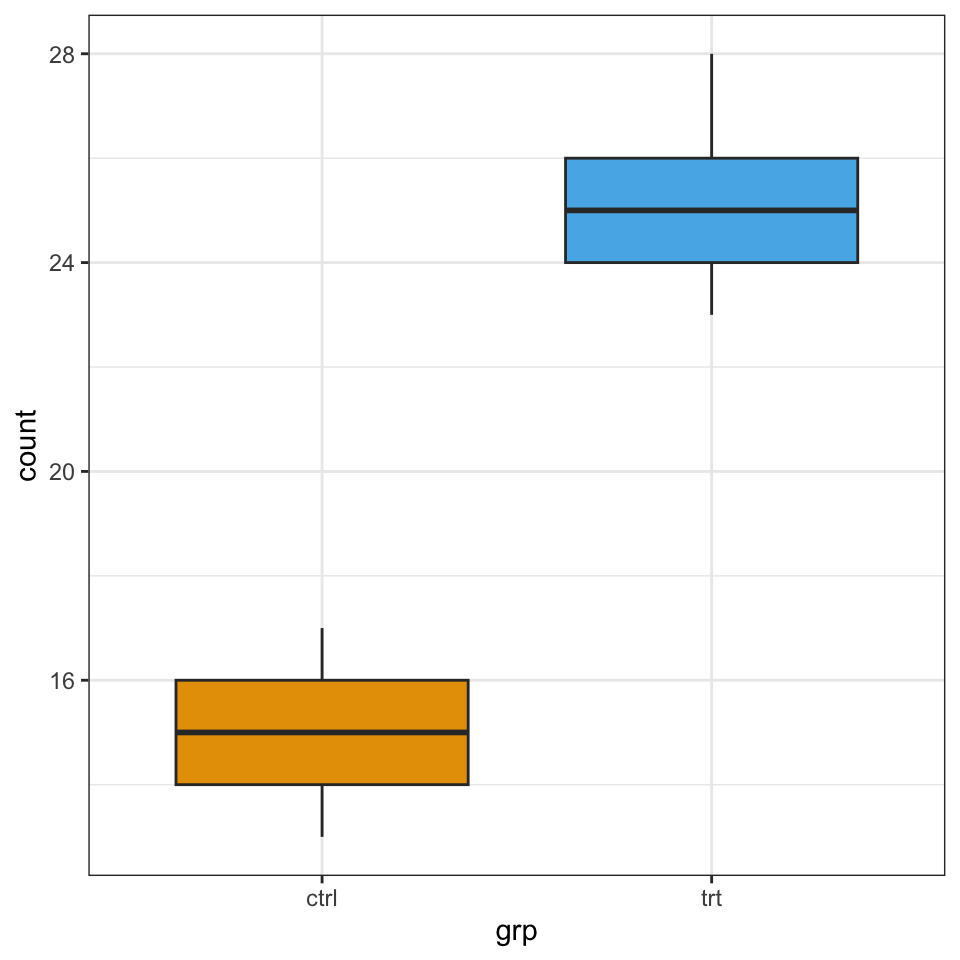
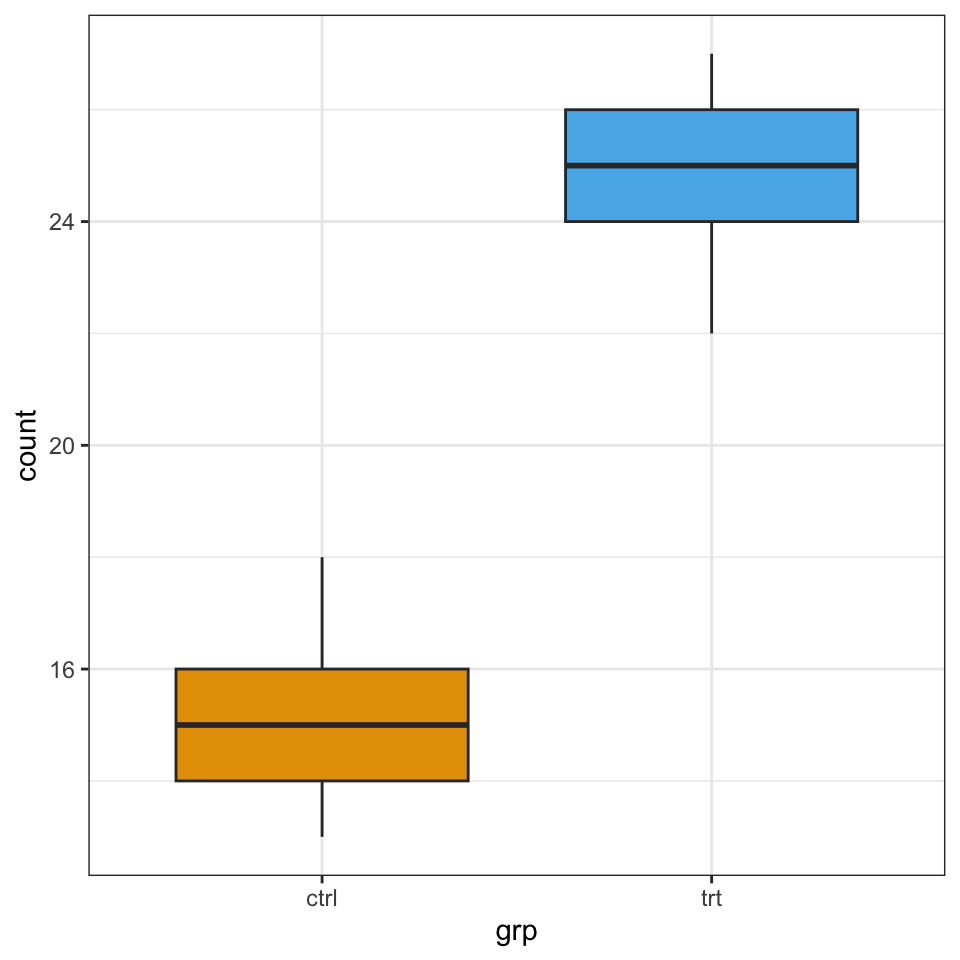
added text

diff --git a/docs/stat-modeling-poisson.html b/docs/stat-modeling-poisson.html
@@ -746,7 +746,7 @@ div.csl-indent {
 
 </header>
 
-<p><em>Letzte Änderung am 02. December 2023 um 21:48:24</em></p>
+<p><em>Letzte Änderung am 03. December 2023 um 10:58:41</em></p>
 <div class="callout callout-style-default callout-tip callout-titled">
 <div class="callout-header d-flex align-content-center">
 <div class="callout-icon-container">
@@ -1171,35 +1171,35 @@ temp        |      0.09 |     0.03 | [ 0.03,  0.16] |  2.85 | 0.004 </code></pre
 </tr>
 <tr class="even">
 <td style="text-align: center;">ctrl</td>
+<td style="text-align: center;">15</td>
+</tr>
+<tr class="odd">
+<td style="text-align: center;">ctrl</td>
 <td style="text-align: center;">16</td>
 </tr>
-<tr class="odd">
-<td style="text-align: center;">ctrl</td>
-<td style="text-align: center;">17</td>
-</tr>
 <tr class="even">
 <td style="text-align: center;">ctrl</td>
-<td style="text-align: center;">14</td>
+<td style="text-align: center;">15</td>
 </tr>
 <tr class="odd">
 <td style="text-align: center;">…</td>
 <td style="text-align: center;">…</td>
 </tr>
 <tr class="even">
-<td style="text-align: center;">trt</td>
-<td style="text-align: center;">25</td>
-</tr>
-<tr class="odd">
-<td style="text-align: center;">trt</td>
-<td style="text-align: center;">25</td>
-</tr>
-<tr class="even">
-<td style="text-align: center;">trt</td>
-<td style="text-align: center;">25</td>
-</tr>
-<tr class="odd">
 <td style="text-align: center;">trt</td>
 <td style="text-align: center;">24</td>
+</tr>
+<tr class="odd">
+<td style="text-align: center;">trt</td>
+<td style="text-align: center;">25</td>
+</tr>
+<tr class="even">
+<td style="text-align: center;">trt</td>
+<td style="text-align: center;">24</td>
+</tr>
+<tr class="odd">
+<td style="text-align: center;">trt</td>
+<td style="text-align: center;">26</td>
 </tr>
 </tbody>
 </table>
@@ -1253,8 +1253,8 @@ temp        |      0.09 |     0.03 | [ 0.03,  0.16] |  2.85 | 0.004 </code></pre
 <div class="cell-output cell-output-stdout">
 <pre><code>Parameter   |   IRR |   SE |         95% CI |      z |      p
 -------------------------------------------------------------
-(Intercept) | 14.99 | 0.39 | [14.24, 15.76] | 104.82 | &lt; .001
-grp [trt]   |  1.67 | 0.05 | [ 1.57,  1.78] |  15.77 | &lt; .001</code></pre>
+(Intercept) | 15.10 | 0.39 | [14.35, 15.87] | 105.49 | &lt; .001
+grp [trt]   |  1.65 | 0.05 | [ 1.55,  1.76] |  15.35 | &lt; .001</code></pre>
 </div>
 </div>
 <p>Als erstes fällt auf, dass wir die Ausgabe des Modells exponieren müssen. Um einen linearen Zusamenhang hinzukriegen bedient sich die Poissonregression den Trick, das der Zusammenhang zwischen dem <span class="math inline">\(y\)</span> und dem <span class="math inline">\(x\)</span> <em>transformiert</em> wird. Wir rechnen unsere Regression nicht auf den echten Daten sondern auf dem <span class="math inline">\(\log\)</span>-scale. Daher müssen wir die Koeffizienten der Poissonregression wieder zurücktransfomieren, wenn wir die Koeffizienten interpretieren wollen. Das können wir mit der Option <code>exponentiate = TRUE</code> durchführen.</p>
@@ -1899,7 +1899,7 @@ animal    |  2 |   205.42 |         57 |             3.20 | &lt; .001
 Anova Table (Type 1 tests)</code></pre>
 </div>
 </div>
-<p>Im folgenden nutzen wir das R Paket <code>{emmeans}</code> wie folgt. Wenn wir die Wahrscheinlichkeiten wiedergeben haben wollen, dann nutzen wir die Option <code>regrid = "response"</code>. In unserem <code>emmeans</code>-Objekt stehen jetzt die Wahrscheinlichkeiten infiziert zu sein für das jeweilige Level von <code>frailty</code>. Wenn wir aber später die <em>Odds ratio</em> benötigen, dann müssen wir die Option <code>type = "response"</code> verwenden. Erstere Option nutze ich später um direkt aus der <code>emmeans</code> Ausgabe ein Säulendiagramm zu erstellen. Auf dem ersten Blick sind beide Ausgaben gleich, aber im Hintergrund werden andere Optionen gesetzt, so dass in folgenden Berechnungen dann was anderes herauskommt.</p>
+<p>Im folgenden nutzen wir das R Paket <code>{emmeans}</code> wie folgt. Wenn wir die mittleren Anzahlen benötigen, dann müssen wir die Option <code>type = "response"</code> verwenden. Sonst würdest du Werte auf der Link-Skala wiederbekommen, die dir hier nicht helfen. Ich nutze später die <code>emmeans</code> Ausgabe um ein Säulendiagramm mit den mittleren Anzahlen zu erstellen. Wir du gleich sehen wirst, werden wir aber nicht die Anzahlen vergleichen sondern die <em>Raten</em> in den jeweiligen Gruppen.</p>
 <div class="cell">
 <div class="sourceCode cell-code" id="cb58"><pre class="sourceCode r code-with-copy"><code class="sourceCode r"><span id="cb58-1"><a href="#cb58-1" aria-hidden="true" tabindex="-1"></a>emm_obj <span class="ot">&lt;-</span> pois_fit <span class="sc">%&gt;%</span> </span>
 <span id="cb58-2"><a href="#cb58-2" aria-hidden="true" tabindex="-1"></a>  <span class="fu">emmeans</span>(<span class="sc">~</span> animal, <span class="at">type =</span> <span class="st">"response"</span>)</span>
@@ -1914,6 +1914,7 @@ Confidence level used: 0.95
 Intervals are back-transformed from the log scale </code></pre>
 </div>
 </div>
+<p>Jetzt steht hier zwar <code>rate</code> aber was ist das denn nun? Dafür berechnen wir mal die Mittelwerte der Anzahlen für die drei Tierarten über die Funktion <code>summarise()</code>. Dann vergleichen wir einmal die Ausgaben und schauen, was wir in <code>emmeans()</code> berechnet haben.</p>
 <div class="cell">
 <div class="sourceCode cell-code" id="cb60"><pre class="sourceCode r code-with-copy"><code class="sourceCode r"><span id="cb60-1"><a href="#cb60-1" aria-hidden="true" tabindex="-1"></a>flea_count_tbl <span class="sc">%&gt;%</span> </span>
 <span id="cb60-2"><a href="#cb60-2" aria-hidden="true" tabindex="-1"></a>  <span class="fu">group_by</span>(animal) <span class="sc">%&gt;%</span> </span>
@@ -1927,19 +1928,22 @@ Intervals are back-transformed from the log scale </code></pre>
 3 fox          10.2</code></pre>
 </div>
 </div>
+<p>Wunderbar, es sind die Mittelwerte der Anzahlen, die in der Spalte <code>rate</code> in der Ausgabe von <code>emmeans()</code> stehen. Damit können wir dann arbeiten und die Ausgabe nutzen um ein Säulendigramm zu erstellen. Bitte schaue für die Umsetzung in das Beispiel am Ende des Abschnitts. Da zeige ich dir dann wie du ein Säulendigramm zu den Anzahlen von Thripsen auf Apfelbäumen erstellst.</p>
+<p>Wenn du die mittleren Anzahlen pro Tierart jetzt für jede Tierart testen willst, dann erhälst du aber keinen Mittelwertsunterschied der Anzahlen, sondern eine <em>Rate</em>. Rechnen wir aber erstmal den paarweisen Vergleich und schauen uns dann an, was wir erhalten haben. Wir kriegen am Ende wiederum einen Vergleich von Wahrscheinlichkeiten, aber eben hier von <em>Raten</em>. Wie immer, es kommt darauf an, was du willst. Hier einmal die paarweisen Vergleiche, darunter dann gleich das <em>compact letter display</em>.</p>
 <div class="cell">
 <div class="sourceCode cell-code" id="cb62"><pre class="sourceCode r code-with-copy"><code class="sourceCode r"><span id="cb62-1"><a href="#cb62-1" aria-hidden="true" tabindex="-1"></a>emm_obj <span class="sc">%&gt;%</span> </span>
-<span id="cb62-2"><a href="#cb62-2" aria-hidden="true" tabindex="-1"></a>  <span class="fu">pairs</span>()</span></code><button title="In die Zwischenablage kopieren" class="code-copy-button"><i class="bi"></i></button></pre></div>
+<span id="cb62-2"><a href="#cb62-2" aria-hidden="true" tabindex="-1"></a>  <span class="fu">pairs</span>(<span class="at">adjust =</span> <span class="st">"bonferroni"</span>)</span></code><button title="In die Zwischenablage kopieren" class="code-copy-button"><i class="bi"></i></button></pre></div>
 <div class="cell-output cell-output-stdout">
 <pre><code> contrast  ratio    SE  df null z.ratio p.value
  cat / dog 0.668 0.043 Inf    1  -6.269  &lt;.0001
  cat / fox 1.971 0.169 Inf    1   7.891  &lt;.0001
  dog / fox 2.951 0.239 Inf    1  13.358  &lt;.0001
 
-P value adjustment: tukey method for comparing a family of 3 estimates 
+P value adjustment: bonferroni method for 3 tests 
 Tests are performed on the log scale </code></pre>
 </div>
 </div>
+<p>Okay, jetzt haben wir statt Raten also eine <em>Ratio</em>, also ein Verhältnis von Raten. Das schauen wir uns doch gleich mal in dem Beispiel an. Wir rechnen also einmal die mittlere Anzahl für jede Tierart durch die entsprechende andere mittlere Anzahl der anderen Tierart. Wir erhalten also folgende <em>Ratios</em> der mittleren Anzahlen.</p>
 <p><span class="math display">\[
 \cfrac{cat}{dog} = \cfrac{20.1}{30.1} = 0.67
 \]</span></p>
@@ -1949,6 +1953,8 @@ Tests are performed on the log scale </code></pre>
 <p><span class="math display">\[
 \cfrac{dog}{fox} = \cfrac{30.1}{10.2} = 2.95
 \]</span></p>
+<p>Wie interpretieren wir jetzt die <em>Ratios</em>? Eigentlich ist das intuitiver als man auf den ersten Blick denkt. Wir haben zum Beispiel fast doppelt so viele Flöhe bei Katzen wie bei Füchsen. Die Anzahl von Hundeflöhen ist fast dreimal so hoch wie die Anzahl an Fuchsflöhen. Wir haben fast nur halb so viele Flöhe auf Katzen gefunden als bei den Hunden. Damit können wir dann schon arbeiten und eine Aussage treffen.</p>
+<p>Und fast am Ende können wir uns auch das <em>compact letter display</em> erstellen. Auch hier nutzen wir wieder die Funktion <code>cld()</code> aus dem R Paket <code>{multcomp}</code>. Hier erhälst du dann die Information über die mittlere Anzahl der jeweiligen Tierarten und ob sich die mittlere Anzahl unterscheidet. Ich nutze dann die Ausgabe von <code>emmeans()</code> um mir dann direkt das Säulendiagramm mit den Fehlerbalken und dem <em>compact letter display</em> zu erstellen. Mehr dazu dann im Kasten weiter unten zu dem Bespiel zu Thripsenanzahl auf Apfelbäumen.</p>
 <div class="cell">
 <div class="sourceCode cell-code" id="cb64"><pre class="sourceCode r code-with-copy"><code class="sourceCode r"><span id="cb64-1"><a href="#cb64-1" aria-hidden="true" tabindex="-1"></a>emm_obj <span class="sc">%&gt;%</span></span>
 <span id="cb64-2"><a href="#cb64-2" aria-hidden="true" tabindex="-1"></a>  <span class="fu">cld</span>(<span class="at">Letters =</span> letters, <span class="at">adjust =</span> <span class="st">"none"</span>)</span></code><button title="In die Zwischenablage kopieren" class="code-copy-button"><i class="bi"></i></button></pre></div>
@@ -1977,7 +1983,6 @@ Offset
 </div>
 </div>
 <div class="callout-body-container callout-body">
-<p>: Ein Wort zum Offset</p>
 <p><a href="https://en.wikipedia.org/wiki/Poisson_regression#.22Exposure.22_and_offset">“Exposure” and offset</a></p>
 <p><a href="https://stats.stackexchange.com/questions/11182/when-to-use-an-offset-in-a-poisson-regression">When to use an offset in a Poisson regression?</a></p>
 <p><a href="https://cran.r-project.org/web/packages/emmeans/vignettes/sophisticated.html#offsets">Models with offsets</a></p>
@@ -2216,10 +2221,6 @@ NOTE: If two or more means share the same grouping symbol,
 <div class="sourceCode cell-code" id="cb86"><pre class="sourceCode r code-with-copy"><code class="sourceCode r"><span id="cb86-1"><a href="#cb86-1" aria-hidden="true" tabindex="-1"></a>insects_tbl <span class="sc">%&gt;%</span> </span>
 <span id="cb86-2"><a href="#cb86-2" aria-hidden="true" tabindex="-1"></a>  <span class="fu">group_by</span>(trt, timepoint) <span class="sc">%&gt;%</span> </span>
 <span id="cb86-3"><a href="#cb86-3" aria-hidden="true" tabindex="-1"></a>  <span class="fu">summarise</span>(<span class="at">mean =</span> <span class="fu">round</span>(<span class="fu">mean</span>(thripse), <span class="dv">2</span>)) </span></code><button title="In die Zwischenablage kopieren" class="code-copy-button"><i class="bi"></i></button></pre></div>
-<div class="cell-output cell-output-stderr">
-<pre><code>`summarise()` has grouped output by 'trt'. You can override using the `.groups`
-argument.</code></pre>
-</div>
 <div class="cell-output cell-output-stdout">
 <pre><code># A tibble: 15 × 3
 # Groups:   trt [3]
@@ -2244,20 +2245,20 @@ argument.</code></pre>
 </div>
 <p>In der <a href="#fig-log-mod-pois-insect">Abbildung&nbsp;<span>45.6</span></a> siehst du das Ergebnis der Auswertung in einem Säulendiagramm. Hier unbedingt <code>SE</code> als den Standardfehler für die Fehlerbalken nutzen, da wir sonst Fehlerbalken größer und kleiner als <span class="math inline">\(0/1\)</span> erhalten, wenn wir die Standardabweichung nutzen würden. Wir sehen einen klaren Effekt der Behandlung <code>viel</code>. Schade, dass wir dann nach 5 Tagen leider keine Auswertung für die dritte Behandlung vorliegen haben. Aber sowas passiert dann unter echten Bedingungen mal schnell.</p>
 <div class="cell" data-layout-align="center">
-<div class="sourceCode cell-code" id="cb89"><pre class="sourceCode r code-with-copy"><code class="sourceCode r"><span id="cb89-1"><a href="#cb89-1" aria-hidden="true" tabindex="-1"></a>emm_obj <span class="sc">%&gt;%</span> </span>
-<span id="cb89-2"><a href="#cb89-2" aria-hidden="true" tabindex="-1"></a>  <span class="fu">as_tibble</span>() <span class="sc">%&gt;%</span> </span>
-<span id="cb89-3"><a href="#cb89-3" aria-hidden="true" tabindex="-1"></a>  <span class="fu">ggplot</span>(<span class="fu">aes</span>(<span class="at">x =</span> timepoint, <span class="at">y =</span> rate, <span class="at">fill =</span> trt)) <span class="sc">+</span></span>
-<span id="cb89-4"><a href="#cb89-4" aria-hidden="true" tabindex="-1"></a>  <span class="fu">theme_bw</span>() <span class="sc">+</span> </span>
-<span id="cb89-5"><a href="#cb89-5" aria-hidden="true" tabindex="-1"></a>  <span class="fu">labs</span>(<span class="at">y =</span> <span class="st">"Mittlere Anzahl an Thripsen"</span>, <span class="at">x =</span> <span class="st">"Messzeitpunkte der Zählungen"</span>,</span>
-<span id="cb89-6"><a href="#cb89-6" aria-hidden="true" tabindex="-1"></a>       <span class="at">fill =</span> <span class="st">"Dosis"</span>) <span class="sc">+</span></span>
-<span id="cb89-7"><a href="#cb89-7" aria-hidden="true" tabindex="-1"></a>  <span class="fu">geom_bar</span>(<span class="at">stat =</span> <span class="st">"identity"</span>, </span>
-<span id="cb89-8"><a href="#cb89-8" aria-hidden="true" tabindex="-1"></a>           <span class="at">position =</span> <span class="fu">position_dodge</span>(<span class="at">width =</span> <span class="fl">0.9</span>, <span class="at">preserve =</span> <span class="st">"single"</span>)) <span class="sc">+</span></span>
-<span id="cb89-9"><a href="#cb89-9" aria-hidden="true" tabindex="-1"></a>  <span class="fu">geom_text</span>(<span class="fu">aes</span>(<span class="at">label =</span> .group, <span class="at">y =</span> rate <span class="sc">+</span> SE <span class="sc">+</span> <span class="fl">0.01</span>),  </span>
-<span id="cb89-10"><a href="#cb89-10" aria-hidden="true" tabindex="-1"></a>            <span class="at">position =</span> <span class="fu">position_dodge</span>(<span class="at">width =</span> <span class="fl">0.9</span>), <span class="at">vjust =</span> <span class="sc">-</span><span class="fl">0.25</span>) <span class="sc">+</span></span>
-<span id="cb89-11"><a href="#cb89-11" aria-hidden="true" tabindex="-1"></a>  <span class="fu">geom_errorbar</span>(<span class="fu">aes</span>(<span class="at">ymin =</span> rate<span class="sc">-</span>SE, <span class="at">ymax =</span> rate<span class="sc">+</span>SE),</span>
-<span id="cb89-12"><a href="#cb89-12" aria-hidden="true" tabindex="-1"></a>                <span class="at">width =</span> <span class="fl">0.2</span>,  </span>
-<span id="cb89-13"><a href="#cb89-13" aria-hidden="true" tabindex="-1"></a>                <span class="at">position =</span> <span class="fu">position_dodge</span>(<span class="at">width =</span> <span class="fl">0.9</span>, <span class="at">preserve =</span> <span class="st">"single"</span>)) <span class="sc">+</span></span>
-<span id="cb89-14"><a href="#cb89-14" aria-hidden="true" tabindex="-1"></a>  <span class="fu">scale_fill_okabeito</span>()</span></code><button title="In die Zwischenablage kopieren" class="code-copy-button"><i class="bi"></i></button></pre></div>
+<div class="sourceCode cell-code" id="cb88"><pre class="sourceCode r code-with-copy"><code class="sourceCode r"><span id="cb88-1"><a href="#cb88-1" aria-hidden="true" tabindex="-1"></a>emm_obj <span class="sc">%&gt;%</span> </span>
+<span id="cb88-2"><a href="#cb88-2" aria-hidden="true" tabindex="-1"></a>  <span class="fu">as_tibble</span>() <span class="sc">%&gt;%</span> </span>
+<span id="cb88-3"><a href="#cb88-3" aria-hidden="true" tabindex="-1"></a>  <span class="fu">ggplot</span>(<span class="fu">aes</span>(<span class="at">x =</span> timepoint, <span class="at">y =</span> rate, <span class="at">fill =</span> trt)) <span class="sc">+</span></span>
+<span id="cb88-4"><a href="#cb88-4" aria-hidden="true" tabindex="-1"></a>  <span class="fu">theme_bw</span>() <span class="sc">+</span> </span>
+<span id="cb88-5"><a href="#cb88-5" aria-hidden="true" tabindex="-1"></a>  <span class="fu">labs</span>(<span class="at">y =</span> <span class="st">"Mittlere Anzahl an Thripsen"</span>, <span class="at">x =</span> <span class="st">"Messzeitpunkte der Zählungen"</span>,</span>
+<span id="cb88-6"><a href="#cb88-6" aria-hidden="true" tabindex="-1"></a>       <span class="at">fill =</span> <span class="st">"Dosis"</span>) <span class="sc">+</span></span>
+<span id="cb88-7"><a href="#cb88-7" aria-hidden="true" tabindex="-1"></a>  <span class="fu">geom_bar</span>(<span class="at">stat =</span> <span class="st">"identity"</span>, </span>
+<span id="cb88-8"><a href="#cb88-8" aria-hidden="true" tabindex="-1"></a>           <span class="at">position =</span> <span class="fu">position_dodge</span>(<span class="at">width =</span> <span class="fl">0.9</span>, <span class="at">preserve =</span> <span class="st">"single"</span>)) <span class="sc">+</span></span>
+<span id="cb88-9"><a href="#cb88-9" aria-hidden="true" tabindex="-1"></a>  <span class="fu">geom_text</span>(<span class="fu">aes</span>(<span class="at">label =</span> .group, <span class="at">y =</span> rate <span class="sc">+</span> SE <span class="sc">+</span> <span class="fl">0.01</span>),  </span>
+<span id="cb88-10"><a href="#cb88-10" aria-hidden="true" tabindex="-1"></a>            <span class="at">position =</span> <span class="fu">position_dodge</span>(<span class="at">width =</span> <span class="fl">0.9</span>), <span class="at">vjust =</span> <span class="sc">-</span><span class="fl">0.25</span>) <span class="sc">+</span></span>
+<span id="cb88-11"><a href="#cb88-11" aria-hidden="true" tabindex="-1"></a>  <span class="fu">geom_errorbar</span>(<span class="fu">aes</span>(<span class="at">ymin =</span> rate<span class="sc">-</span>SE, <span class="at">ymax =</span> rate<span class="sc">+</span>SE),</span>
+<span id="cb88-12"><a href="#cb88-12" aria-hidden="true" tabindex="-1"></a>                <span class="at">width =</span> <span class="fl">0.2</span>,  </span>
+<span id="cb88-13"><a href="#cb88-13" aria-hidden="true" tabindex="-1"></a>                <span class="at">position =</span> <span class="fu">position_dodge</span>(<span class="at">width =</span> <span class="fl">0.9</span>, <span class="at">preserve =</span> <span class="st">"single"</span>)) <span class="sc">+</span></span>
+<span id="cb88-14"><a href="#cb88-14" aria-hidden="true" tabindex="-1"></a>  <span class="fu">scale_fill_okabeito</span>()</span></code><button title="In die Zwischenablage kopieren" class="code-copy-button"><i class="bi"></i></button></pre></div>
 <div class="cell-output-display">
 <div id="fig-log-mod-pois-insect" class="quarto-figure quarto-figure-center anchored">
 <figure class="figure">
